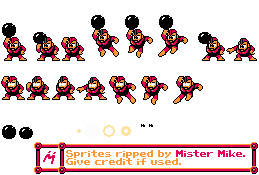
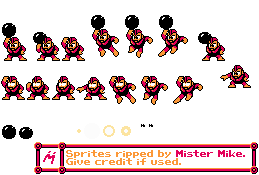
Added class for bombMan preparing to throw
Still needs statemachine implementation and actual projectile implementation

Changed region(s): [[0.834, 0.2, 0.9884, 0.5143]]

diff --git a/ISprite/BombManThrowBomb.cs b/ISprite/BombManThrowBomb.cs
@@ -1,0 +1,103 @@
+using Microsoft.Xna.Framework;
+using Microsoft.Xna.Framework.Graphics;
+
+public class BombManThrowBomb : ISprite
+{
+    int currentFrame;    // Make sure to use camelCase consistently
+    int totalFrame;
+    int delayCounter;
+    int delayMax;
+    float x;
+    float y;
+    private Texture2D enemySheet;
+    int enemySizeX;
+    int enemySizeY;
+    public int bombInAir = 0;
+
+    public BombManThrowBomb(Texture2D texture)
+    {
+        enemySheet = texture;
+        x = 450;
+        y = 50;
+    }
+
+    public void Initialize(GraphicsDeviceManager _graphics, float movementSpeed, int megamanSize)
+    {
+        currentFrame = 0;
+        totalFrame = 60;
+        delayCounter = 0;
+        delayMax = 10;
+        enemySizeX = 50;
+        enemySizeY = 50;
+    }
+
+    public void Update(GameTime gameTime)
+    {
+        delayCounter++;
+        if (delayCounter >= delayMax)
+        {
+            currentFrame++;
+            if (currentFrame >= totalFrame)
+            {
+                currentFrame = 0;
+            }
+            delayCounter = 0;
+        }
+    }
+
+
+    public void Draw(SpriteBatch _spriteBatch, float movementSpeed, bool flipHorizontally, bool flipVertically)
+    {
+
+        SpriteEffects spriteEffects = SpriteEffects.None;
+        flipHorizontally = true;
+
+        if (flipHorizontally)
+        {
+            spriteEffects |= SpriteEffects.FlipHorizontally;
+        }
+
+        if (flipVertically)
+        {
+            spriteEffects |= SpriteEffects.FlipVertically;
+        }
+
+        Rectangle sourceRectangle;
+        Rectangle destinationRectangle;
+        Rectangle sourceRectangleBomb = Rectangle.Empty;
+        Rectangle destinationRectangleBomb = Rectangle.Empty;
+
+        if (currentFrame < 10)
+        {
+            destinationRectangle = new Rectangle((int)x, (int)y, enemySizeX, enemySizeY);
+            sourceRectangle = new Rectangle(31, 29, 29, 32);
+        }
+        else if (currentFrame == 10 || currentFrame == 11)
+        {
+            destinationRectangle = new Rectangle((int)x-2, (int)y-1, enemySizeX+2, enemySizeY+1);
+            sourceRectangle = new Rectangle(195, 29, 31, 33);
+        }
+        else if(currentFrame > 11)
+        {
+            destinationRectangle = new Rectangle((int)x-4, (int)y+7, enemySizeX+4, enemySizeY-7);
+            sourceRectangle = new Rectangle(218, 63, 33, 25);
+            bombInAir = 1;
+        }
+        else
+        {
+            destinationRectangle = new Rectangle((int)x - 4, (int)y + 7, enemySizeX + 4, enemySizeY - 7);
+            sourceRectangle = new Rectangle(218, 63, 33, 25);
+
+            destinationRectangleBomb = new Rectangle((int)x - 4, (int)y + 7, enemySizeX + 4, enemySizeY - 7);
+            sourceRectangleBomb = new Rectangle(0, 122, 17, 17);
+        }
+
+
+
+        _spriteBatch.Begin();
+        _spriteBatch.Draw(enemySheet, destinationRectangle, sourceRectangle, Color.White, 0f, Vector2.Zero, spriteEffects, 0f);
+        _spriteBatch.End();
+
+   
+    }
+}

diff --git a/ISprite/bombManIdle.cs b/ISprite/bombManIdle.cs
@@ -1,7 +1,7 @@
 using Microsoft.Xna.Framework;
 using Microsoft.Xna.Framework.Graphics;
 
-public class bombMan : ISprite
+public class bombManIdle : ISprite
 {
     int currentFrame;    // Make sure to use camelCase consistently
     int totalFrame;
@@ -12,11 +12,11 @@ public class bombMan : ISprite
     private Texture2D enemySheet;
     int enemySizeX;
     int enemySizeY;
-    public bombMan(Texture2D texture)
+    public bombManIdle(Texture2D texture)
     {
         enemySheet = texture;
         x = 400;
-        y = 15;
+        y = 40;
     }
 
     public void Initialize(GraphicsDeviceManager _graphics, float movementSpeed, int megamanSize)
@@ -25,8 +25,8 @@ public class bombMan : ISprite
         totalFrame = 20;
         delayCounter = 0;
         delayMax = 10;
-        enemySizeX = megamanSize;
-        enemySizeY = megamanSize;
+        enemySizeX = 50;
+        enemySizeY = 50;
     }
 
     public void Update(GameTime gameTime)
@@ -69,12 +69,12 @@ public class bombMan : ISprite
         }
         else if (currentFrame == 10)
         {
-            destinationRectangle = new Rectangle((int)x-8, (int)y-12, enemySizeX+8, enemySizeY+10);
+            destinationRectangle = new Rectangle((int)x-8, (int)y-10, enemySizeX+8, enemySizeY+10);
             sourceRectangle = new Rectangle(31, 30, 29, 31);
         }
         else
         {
-            destinationRectangle = new Rectangle((int)x-6, (int)y-32, enemySizeX+6, enemySizeY+30);
+            destinationRectangle = new Rectangle((int)x-6, (int)y-30, enemySizeX+6, enemySizeY+30);
             sourceRectangle = new Rectangle(0, 21, 28, 41);
         }
 

diff --git a/Game1.cs b/Game1.cs
@@ -65,7 +65,8 @@ namespace Project1
                 megaManSpriteFactory.Instance.CreateDamagedMegaman(),
                 megaManSpriteFactory.Instance.CreateClimbingMegaman(),
                 EnemySpriteFactory.Instance.CreateJumpingFlea(),
-                EnemySpriteFactory.Instance.CreateBombMan(),
+                EnemySpriteFactory.Instance.CreateBombManIdle(),
+                EnemySpriteFactory.Instance.CreateBombManThrowing(),
                 megaManSpriteFactory.Instance.CreateClimbingReachedTopMegaman(),
             };
 

diff --git a/SpriteFactories/EnemySpriteFactory.cs b/SpriteFactories/EnemySpriteFactory.cs
@@ -31,8 +31,13 @@ public class EnemySpriteFactory
         return new jumpingFlea(enemySheet);
     }
 
-    public ISprite CreateBombMan()
+    public ISprite CreateBombManIdle()
     {
-        return new bombMan(bossSheet);
+        return new bombManIdle(bossSheet);
+    }
+
+    public ISprite CreateBombManThrowing()
+    {
+        return new BombManThrowBomb(bossSheet);
     }
 }
